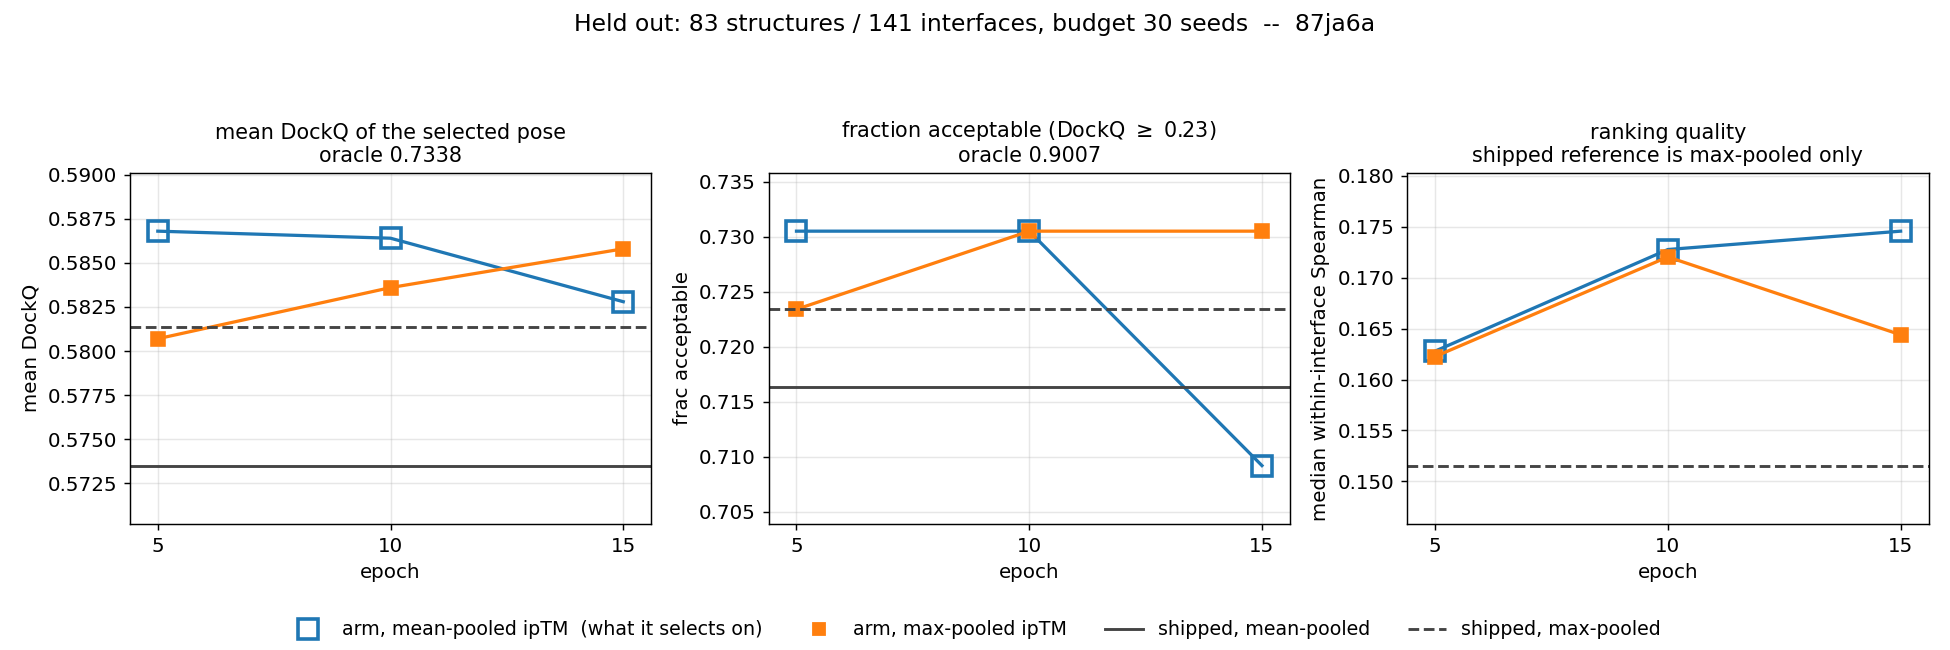
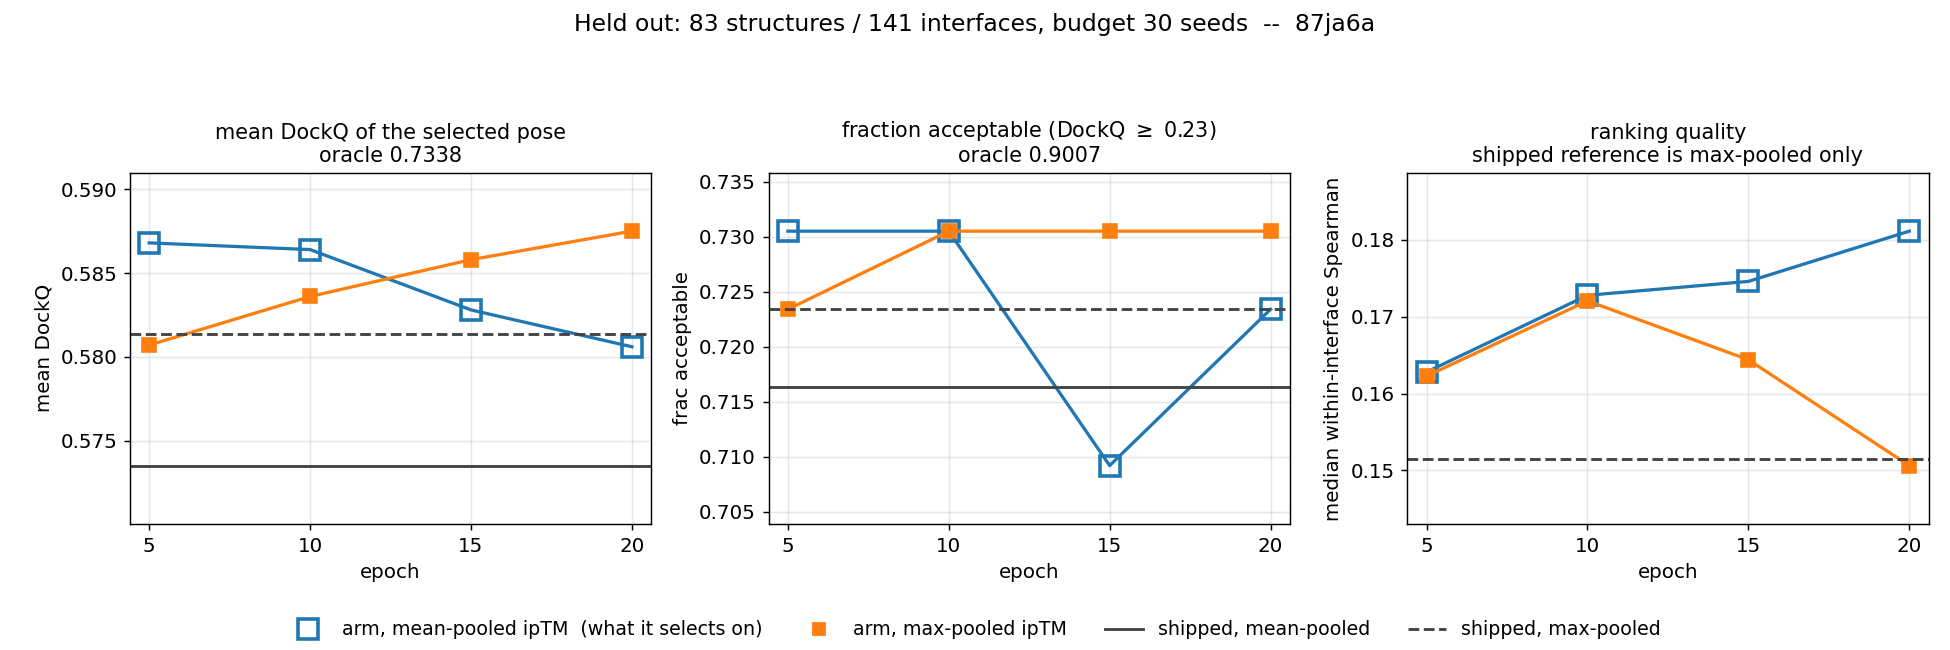
87ja6a epoch 20: plots and held-out numbers
Pushed automatically at the epoch boundary. Figures and metric json only -- no checkpoints,
no run log, no trajectories.

Claude-Session: https://claude.ai/code/session_014t55QPNWnMkjqFi95YVBtG

diff --git a/extra_training/RESULTS.md b/extra_training/RESULTS.md
@@ -27,6 +27,7 @@ Regenerated at each epoch boundary. Checkpoints, run logs and trajectories are n
 | 17 | 2.8882 | 0.0071 | 0.3035 | 0.4280 |
 | 18 | 2.8702 | 0.0068 | 0.3022 | 0.3960 |
 | 19 | 2.8745 | 0.0067 | 0.3000 | 0.4300 |
+| 20 | 2.8588 | 0.0066 | 0.3000 | 0.3950 |
 
 ## Held out — 83 structures / 141 interfaces, budget 30
 
@@ -35,6 +36,7 @@ Regenerated at each epoch boundary. Checkpoints, run logs and trajectories are n
 | shipped | 0.5735 | 0.5813 | 0.7163 | — | 0.1515 |
 | epoch 10 | 0.5864 | 0.5836 | 0.7305 | 0.1728 | 0.1720 |
 | epoch 15 | 0.5828 | 0.5858 | 0.7092 | 0.1746 | 0.1644 |
+| epoch 20 | 0.5806 | 0.5875 | 0.7234 | 0.1811 | 0.1506 |
 | epoch 5 | 0.5868 | 0.5807 | 0.7305 | 0.1628 | 0.1623 |
 
 ![training](figures/87ja6a_train.png)
